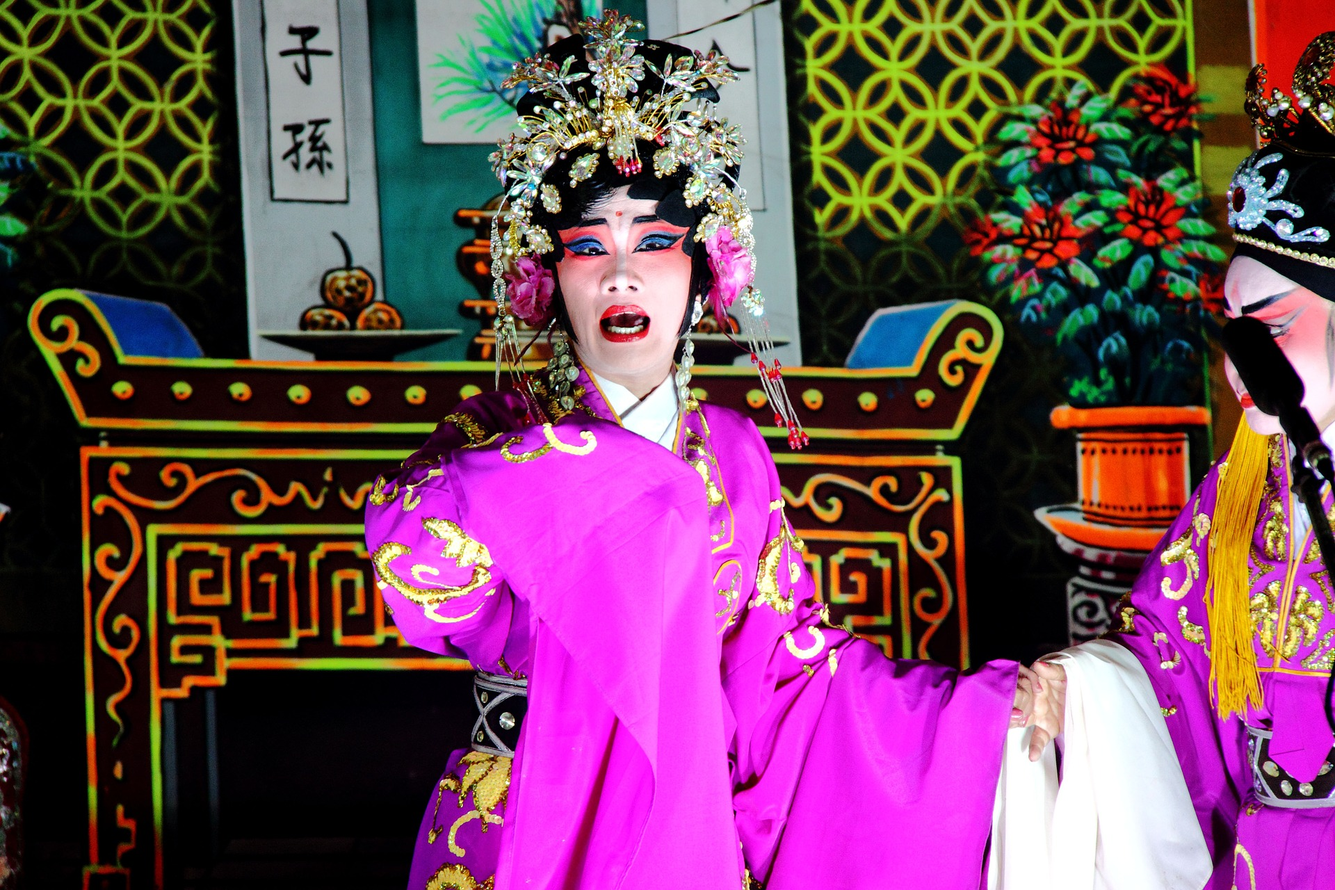
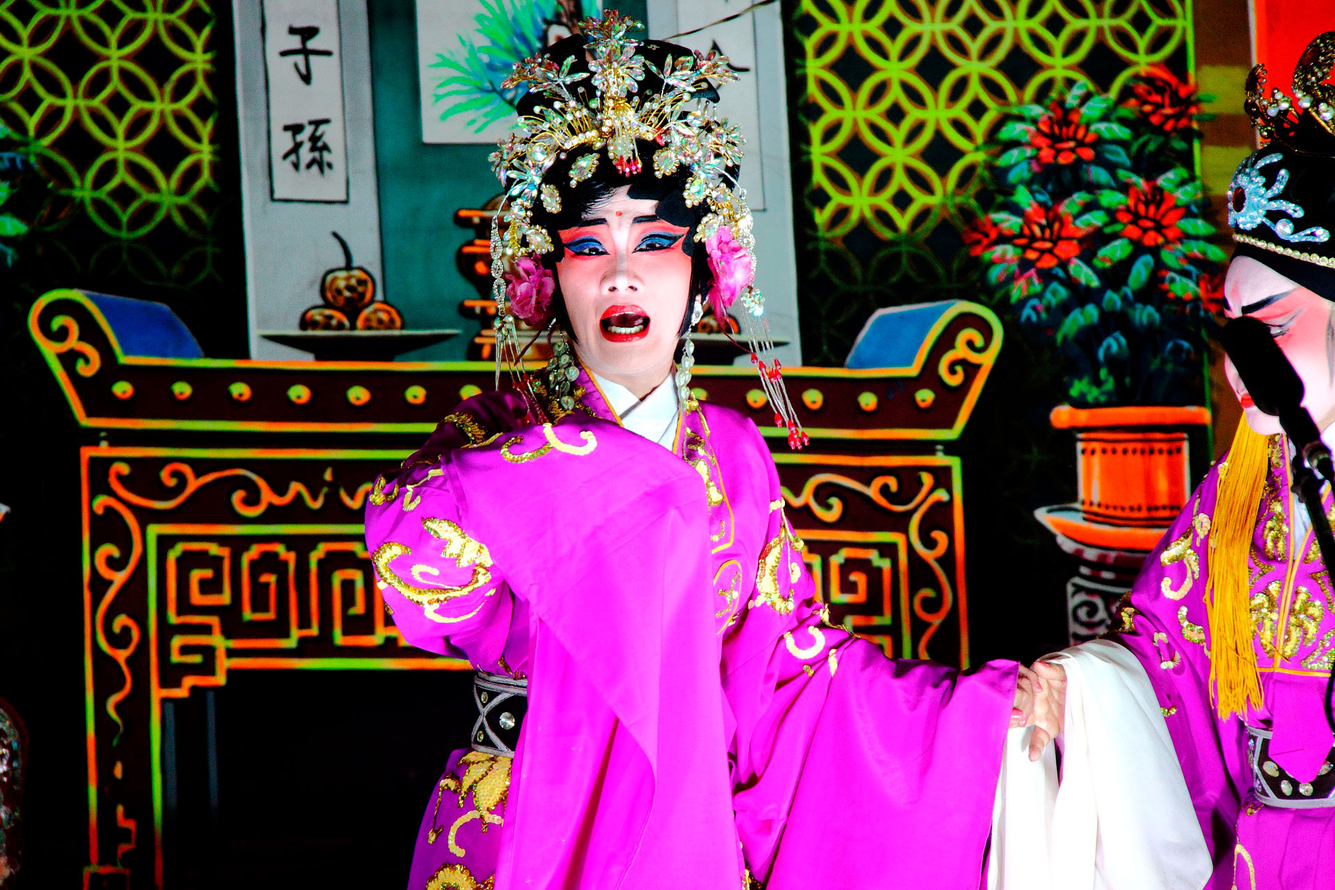
Optimized images

diff --git a/src/assets/config/characters.js b/src/assets/config/characters.js
@@ -1,9 +1,9 @@
-import char1 from '../images/01_char.jpeg'
-import char2 from '../images/02_char.jpeg'
-import char3 from '../images/03_char.jpeg'
-import char4 from '../images/04_char.jpeg'
-import char5 from '../images/05_char.jpeg'
-import char6 from '../images/06_char.jpeg'
+import char1 from '../images/01_char.jpg'
+import char2 from '../images/02_char.jpg'
+import char3 from '../images/03_char.jpg'
+import char4 from '../images/04_char.jpg'
+import char5 from '../images/05_char.jpg'
+import char6 from '../images/06_char.jpg'
 
 export default [
     {

diff --git a/src/assets/pages/PageBlog/PageBlog.scss b/src/assets/pages/PageBlog/PageBlog.scss
@@ -30,7 +30,7 @@
 
 .blog-jumbotron {
   margin: 0;
-  background-image: url("../../images/life-live-light-1534795.png");
+  background-image: url("../../images/life-live-light-1534795.jpg");
   background-size: cover;
   min-height: 300px;
   color: #fff;
